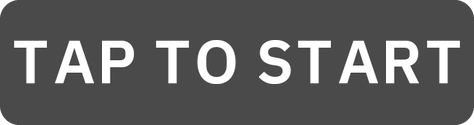
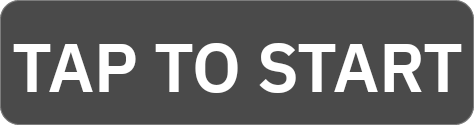
README: step-by-step setup with what the field shows, and a real TAP TO START crop
- First-time setup walks through each step with the field state it
  leads to (TAP TO START, NO GPS, NO SIGNAL, the gap). Starting
  PartnerRide (tap the field) and waiting for GPS are separate steps.
- New "Every ride" section: PartnerRide is off after every power-on
  because it uses a lot of battery, so tap the field to start it. The
  Android background-location reasoning stays in TECHNICAL.md.
- TAP TO START is the first row of "Data field states".
- art/field-states/tap-to-start.png is now cropped from a real map-page
  screenshot (same BOX and corner mask as gen-field-states.py), replacing
  the stand-in.

diff --git a/README.md b/README.md
@@ -95,32 +95,58 @@ see each other.
 
 ## First-time setup (both devices)
 
-1. On the Karoo: open PartnerRide. Grant the Bluetooth and Location permissions when prompted.
-2. **Device A:** tap **Generate** — it creates a 6-digit code like `428713`.
-3. **Device B:** type exactly those 6 digits into the couple-code field.
-4. Switch **PartnerRide enabled** on, on both devices. **Your Karoo only starts sending once it has
-   a GPS fix** — until then the status section keeps showing *Broadcasting: no*, even though
-   everything is set up correctly. Indoors that fix may never arrive, so don't judge the setup
-   from your desk: take both devices outside and give them a minute. Once both have a fix and
-   are in range, the status shows *Broadcasting: yes* and a partner signal age of a few seconds.
-5. Add the field to a ride page: Profiles → edit page → add field → **PartnerRide → Partner Gap**.
-   Full-width and half-width cells are both supported — the text is sized to fit whichever
-   cell you put it in.
-6. Optional: enable the **Gap alert** and set a threshold (default 100 m). It beeps and flashes
+1. **Grant the permissions.** On the Karoo, open PartnerRide and allow Bluetooth and Location
+   when asked.
+
+2. **Add the field to a ride page:** Profiles → edit page → add field → **PartnerRide → Partner
+   Gap**. Full-width and half-width cells both work — the text is sized to fit whichever cell you
+   put it in.
+
+   **Field:** `TAP TO START`
+
+3. **Pair the two devices with a couple code.** On **device A**, tap **Generate** in the app — it
+   creates a 6-digit code like `428713`. On **device B**, type exactly those 6 digits into the
+   couple-code field.
+
+4. **Start PartnerRide on both devices: tap the field once.** (The **PartnerRide enabled** switch
+   in the app does the same.)
+
+   **Field:** `NO GPS` — or straight to `NO SIGNAL` if the Karoo already has a GPS fix. `NO CODE`
+   means the couple code is missing or incomplete: go back to step 3.
+
+5. **Wait for GPS.** Your Karoo only starts sending once it has a GPS fix. Indoors that fix may
+   never arrive, so don't judge the setup from your desk: take both devices outside and give
+   them a minute.
+
+   **Field:** `NO SIGNAL` on gray — your Karoo is sending, but hasn't heard the other one yet. In
+   the app, the status section shows *Broadcasting: yes*.
+
+6. **See each other.** As soon as both devices have a fix and are in range, they find each other.
+
+   **Field:** the gap, e.g. `5 m ▲` on green — see [Data field states](#data-field-states) for all
+   of them. In the app, the partner signal age shows a few seconds.
+
+7. Optional: enable the **Gap alert** and set a threshold (default 100 m). It beeps and flashes
    once each time the smoothed gap first exceeds the threshold, and re-arms after the gap closes.
 
-The link runs from the moment you start it until you stop it — no ride recording needed, and the
-number updates about once a second.
+## Every ride
 
-**Before every ride, tap the field once on both Karoos.** PartnerRide is always off after the
-Karoo is switched on, and the field says `TAP TO START` until you do. It doesn't start by itself
-on purpose: Android only gives an app GPS in the background if you started it yourself, and the
-link uses no battery on days you ride alone.
+PartnerRide uses a lot of battery — Bluetooth and GPS run the whole time — so it never starts by
+itself. It is always off after the Karoo is switched on, and has to be started for each ride:
+
+1. Switch on the Karoo. The field shows `TAP TO START`.
+2. **Tap the field**, on both Karoos. It shows `NO GPS` until the Karoo has a GPS fix, then
+   `NO SIGNAL` until it hears the other Karoo, then the gap.
+3. Tap the field again to stop PartnerRide, e.g. when you split up for the rest of the ride. It
+   goes back to `TAP TO START`.
+
+No ride recording is needed, and the number updates about once a second.
 
 ## Data field states
 
 | Field | Meaning |
 |---|---|
+| <img src="art/field-states/tap-to-start.png" width="237" alt="TAP TO START on gray"> | PartnerRide is off — tap the field to start it. Always the case after the Karoo is switched on |
 | <img src="art/field-states/green-ahead.png" width="237" alt="5 m and an up arrow, on green"> | Partner is **ahead** of you, gap 15 m or less |
 | <img src="art/field-states/green-behind.png" width="237" alt="5 m and a down arrow, on green"> | Partner is **behind** you, gap 15 m or less |
 | <img src="art/field-states/yellow-ahead.png" width="237" alt="50 m and an up arrow, on yellow"> | Partner ahead, gap up to 50 m |
@@ -134,16 +160,10 @@ link uses no battery on days you ride alone.
 | <img src="art/field-states/no-bt.png" width="237" alt="NO BT on gray"> | Bluetooth is off |
 | <img src="art/field-states/no-code.png" width="237" alt="NO CODE on gray"> | No couple code entered yet (or fewer than 6 digits) — nothing is sent |
 | <img src="art/field-states/no-perm.png" width="237" alt="NO PERM on gray"> | Location/Bluetooth permissions missing — open the app to grant them |
-| <img src="art/field-states/tap-to-start.png" width="237" alt="TAP TO START on gray"> | PartnerRide is off — tap the field to start it. Always the case after the Karoo is switched on |
 
 Gray states mean "not working, but nobody is being dropped"; red is reserved for a wide gap and
 for losing your partner mid-ride. The field sizes its text to whatever cell you put it in, so a
 half-width cell shows the same states in a smaller font rather than cutting them off.
-
-**Tap the field to start PartnerRide, and tap it again to stop it**, without leaving the ride
-page — the same switch as in the settings menu. It reads `TAP TO START` while it is off. Useful when you are riding without your partner, or on a stretch where you don't need the
-gap and would rather save battery — switching it off stops the Bluetooth broadcasting, the GPS
-and the alerts.
 
 ## Troubleshooting
 
